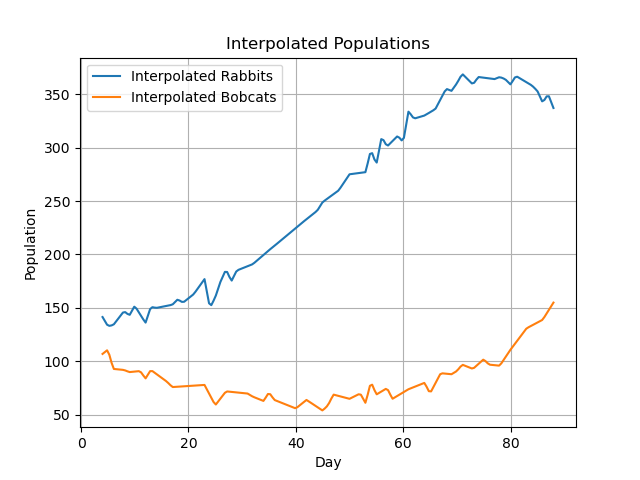
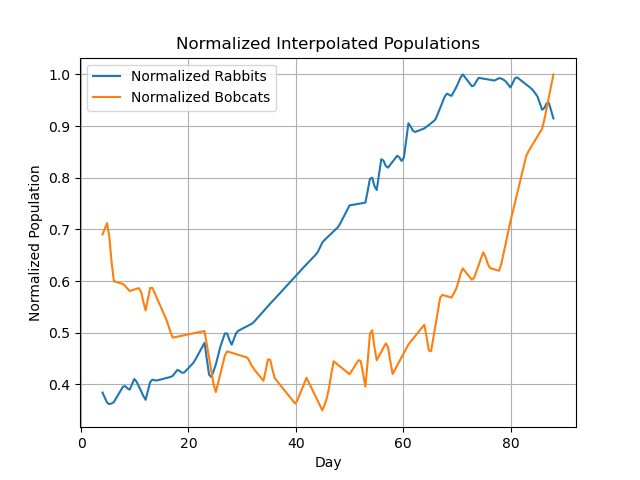
updated

diff --git a/main.py b/main.py
@@ -1,84 +1,146 @@
-"""" 
+"""
 Author: AXEL MUNIZ TELLO, LEANDRO OUVERNY, RYAN HSIAO
 Date: 03/25/2025
-Description: This script will be used to simulate the population dynamics of bobcats and rabbits using the Lotka-Volterra model
-             for the applied mathematics challenge at UC Merced (2025)
-Note: Please refer to the README.md file for more information on the project and the workings of the code.
+Description: This script simulates the population dynamics of bobcats and rabbits using the Lotka-Volterra model
+             for the Applied Mathematics Challenge at UC Merced (2025).
 """
 
 import matplotlib.pyplot as plt
 from scipy.interpolate import interp1d
+from scipy.optimize import minimize
 from scipy.integrate import solve_ivp
 import numpy as np
 import pandas as pd
-import os 
+import os
+
+# =========================
+# FUNCTION DEFINITIONS
+# =========================
+
+def predator_prey(t, z, a, b, c, d):
+    x, y = z
+    dxdt = a * x - b * x * y
+    dydt = d * x * y - c * y
+    return [dxdt, dydt]
+
+def loss(params):
+    a, b, c, d = params
+    try:
+        sol = solve_ivp(
+            lambda t, z: predator_prey(t, z, a, b, c, d),
+            [t_common[0], t_common[-1]],
+            [x_interp_norm[0], y_interp_norm[0]],
+            t_eval=t_common,
+            method='RK45'
+        )
+
+        if not sol.success or np.any(np.isnan(sol.y)) or sol.y.shape[1] != len(t_common):
+            return np.inf
+
+        x_model, y_model = sol.y
+        mse_rabbits = np.mean((x_interp_norm - x_model) ** 2)
+        mse_bobcats = np.mean((y_interp_norm - y_model) ** 2)
+        return mse_rabbits + mse_bobcats
+
+    except Exception:
+        return np.inf
+
+# =========================
+# MAIN SCRIPT
+# =========================
 
 if not os.path.exists('plots'):
     os.makedirs('plots')
-    
 
-def predator_prey (t, z, a, b, c, d):
-    x,y = z
-    dxdt = a*x - b*x*y
-    dydt = d*x*y - c*y
-    return [dxdt, dydt]
-    
-# Loaded Data for Bobcat and Rabbit Populations:
+# Load population data
 bobcat_data = pd.read_csv('data/bobcatData.csv')
 rabbit_data = pd.read_csv('data/rabbitData.csv')
 
-# Organizing Data:
 rabbit_data.columns = ['Day', 'Rabbits']
 bobcat_data.columns = ['Day', 'Bobcats']
 
-# Extract Data from Columns:
 t_rabbit = rabbit_data['Day'].values
 t_bobcat = bobcat_data['Day'].values
 x_values = rabbit_data['Rabbits'].values
 y_values = bobcat_data['Bobcats'].values
 
-# Plot for Rabbit Population Over Time:
-rabbit_data.plot.scatter(x='Day', y='Rabbits', s=5) 
-plt.title('Rabbit Population Over Time') 
+# Plot original data
+rabbit_data.plot.scatter(x='Day', y='Rabbits', s=5)
+plt.title('Rabbit Population Over Time')
 plt.xlabel('Day')
 plt.ylabel('Population')
 plt.savefig('plots/rabbit_population_plot.png')
 plt.close()
 
-# Plot for Bobcat Population Over Time:
-bobcat_data.plot.scatter(x='Day', y='Bobcats', s=5)  
+bobcat_data.plot.scatter(x='Day', y='Bobcats', s=5)
 plt.title('Bobcat Population Over Time')
 plt.xlabel('Day')
 plt.ylabel('Population')
-plt.savefig('plots/bobcat_population_plot.png') 
+plt.savefig('plots/bobcat_population_plot.png')
 plt.close()
 
-######-BEGINNING OF METHOD-######
-"""
-In order to be able to solve these ODEs we we are going to need more data points. However, we 
-are going to need to interpolate the data points we currently have in order to get more data points
-that we can work with. 
-"""
-# Interpolation:
-# Create a common time grid (ex) 90 days evenly spaced)
+# Interpolation onto common time grid
 t_min = max(t_rabbit.min(), t_bobcat.min())
 t_max = min(t_rabbit.max(), t_bobcat.max())
 t_common = np.linspace(t_min, t_max, 200)
 
-# Interpolate both datasets onto common time grid
 interp_rabbit = interp1d(t_rabbit, x_values, kind='linear', fill_value='extrapolate')
 interp_bobcat = interp1d(t_bobcat, y_values, kind='linear', fill_value='extrapolate')
 
-x_interp = interp_rabbit(t_common) # x_interp = rabbit population => x(t)
-y_interp = interp_bobcat(t_common) # y_interp = bobcat population => y(t)
+x_interp = interp_rabbit(t_common)
+y_interp = interp_bobcat(t_common)
 
-# Plot for Interpolated Rabbit Population:
-plt.plot(t_common, x_interp, label='Interpolated Rabbits')
-plt.plot(t_common, y_interp, label='Interpolated Bobcats')
-plt.title("Interpolated Populations")
+# Normalize interpolated data
+x_interp_norm = x_interp / np.max(x_interp)
+y_interp_norm = y_interp / np.max(y_interp)
+
+# Plot normalized interpolated data
+plt.plot(t_common, x_interp_norm, label='Normalized Rabbits')
+plt.plot(t_common, y_interp_norm, label='Normalized Bobcats')
+plt.title("Normalized Interpolated Populations")
 plt.xlabel("Day")
-plt.ylabel("Population")
+plt.ylabel("Normalized Population")
 plt.legend()
 plt.grid(True)
 plt.savefig("plots/interpolated_data.png")
 plt.close()
+
+# Fit model parameters
+initial_guess = [0.2, 0.4, 0.5, 0.]
+bounds = [(0, 5), (0, 0.1), (0, 5), (0, 0.1)]
+result = minimize(loss, initial_guess, bounds=bounds)
+
+a_fit, b_fit, c_fit, d_fit = result.x
+print(f"\nBest fit parameters:")
+print(f"a = {a_fit:.4f}, b = {b_fit:.4f}, c = {c_fit:.4f}, d = {d_fit:.4f}")
+print(f"Final loss (MSE): {result.fun:.4f}")
+
+# Simulate for 180 days (next 90 days forward)
+t_total = np.linspace(0, 180, 181)
+initial_conditions = [x_interp_norm[0], y_interp_norm[0]]
+sol = solve_ivp(lambda t, z: predator_prey(t, z, a_fit, b_fit, c_fit, d_fit),
+                [t_total[0], t_total[-1]],
+                initial_conditions,
+                t_eval=t_total,
+                method='RK45')
+
+x_pred, y_pred = sol.y
+
+# Plot full prediction
+plt.figure(figsize=(10, 6))
+plt.plot(t_total, x_pred, label='Normalized Rabbits')
+plt.plot(t_total, y_pred, label='Normalized Bobcats')
+plt.axhline(200/np.max(y_interp), color='red', linestyle='--', label='Normalized Bobcat Threshold')
+plt.xlabel("Day")
+plt.ylabel("Normalized Population")
+plt.title("Predicted Normalized Populations (180 Days)")
+plt.legend()
+plt.grid(True)
+plt.savefig("plots/full_prediction.png")
+plt.close()
+
+# Check for bobcat overpopulation (in normalized scale)
+if np.any(y_pred[90:] > 200 / np.max(y_interp)):
+    print("⚠ Bobcat population exceeds 200 during the next 90 days!\n")
+else:
+    print("✅ Bobcat population stays under control during the next 90 days.\n")
